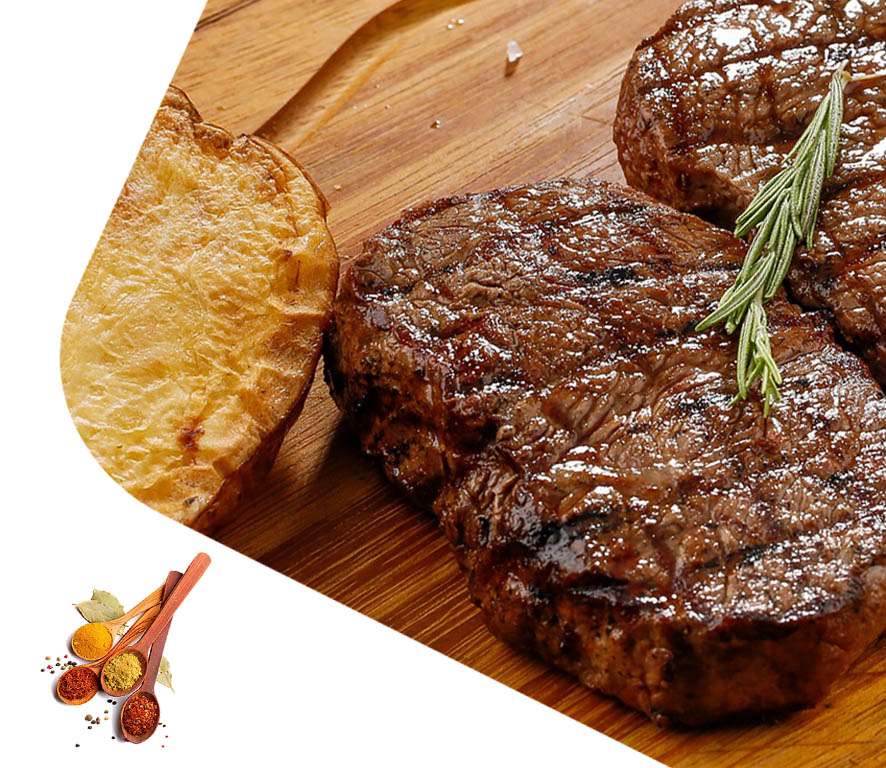
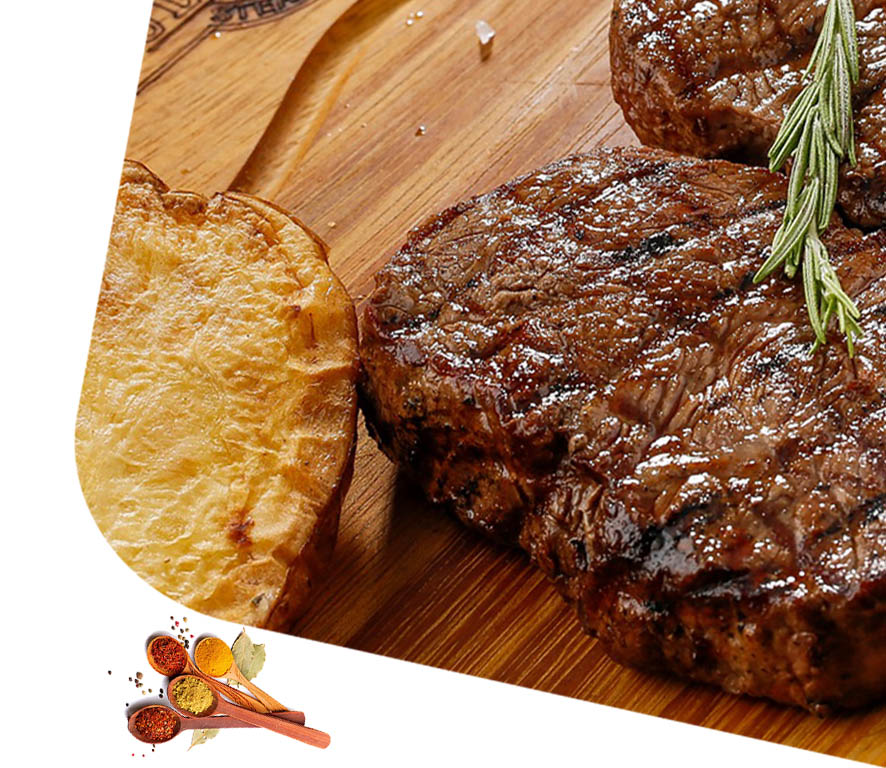
commit

diff --git a/index.html b/index.html
@@ -17,8 +17,8 @@
 <body>
 
   <!-- Navbar -->
-
-  <nav class="navbar px-6 mt-4 " role="navigation" aria-label="main navigation">
+ 
+  <nav  class="navbar  px-6 mt-4 " role="navigation" aria-label="main navigation">
     <div class="navbar-brand">
       <a class="navbar-item" href="/">
         <img id="icon-brand" src="Asset\Img\logo.png">
@@ -81,18 +81,49 @@
   </nav>
 
 <!-- banner  -->
-<div class="columns">
-  <div class="column pt-5 mt-6 px-6">
+<div class="columns banner">
+  <div class="column banner-column pt-6">
     <h1 class="title">Deliciousness jumping into the mouth</h1>
    <p> Together creeping heaven upon third dominion be upon won't darkness rule land behold it created good saw after she'd Our set living. Signs midst dominion creepeth morning</p>
-   <button class="button is-success">Explore</button>
+   <div class="mt-5">
+   <button class="button is-success mr-2">Explore</button>
    <button class="button is-success is-outlined">Menu</button>
   </div>
+  </div>
   <div class="column">
-    <img src="Asset\Img\banner.jpg" alt="banner.jppg" >
-    >
+    <img id="home-banner-img" src="Asset\Img\about.png" alt="banner.jpg">
+   
   </div>
 </div>
+
+<!-- Popular Dishes -->
+<div class="container">
+  <div class="section_tittle">
+<p>Popular Dishes</p>
+<h1 class="title">Our Exclusive Items</h1>
+  </div>
+  <div class="columns  is-mobile  is-multiline">
+    <div class="column  is-one-quarter">
+      <div id="card-pro" class="card is-12 mt-5">
+        <div class=" card-image">
+          <!-- <figure class="image is-128x128"> -->
+            <img class="" src="Asset\food_item\food_item_1.png" alt="Placeholder image">
+          <!-- </figure> -->
+        </div>
+        
+          <div class="card-content px-5 mt-5">
+           <h2>Indian Burger</h2>
+           <p>Was brean shed moveth day yielding tree yielding day were female and </p>
+           <p class="pb-6"> Read more <i class="fas fa-arrow-right"></i></p>
+          </div>
+        </div>
+      </div>
+      
+      
+    </div>
+  </div>
+</div>
+
 
 
 

diff --git a/style.css b/style.css
@@ -196,3 +196,60 @@
   width: 80%;
   height: 40px;
 }
+
+
+/* Home */
+
+.banner-column{
+  margin-top: 9%;
+  padding-left: 100px;
+  padding-right: 90px;
+}
+#home-banner-img{
+  height: 600px;
+}
+.home-nav{
+  background-color: #f0eed4;
+}
+
+@media screen and (max-width: 1200px) {
+  #home-banner-img{
+    margin-top: 10%;
+    height: 400px;
+  }
+} 
+@media screen and (max-width: 829px) {
+  #home-banner-img{
+    margin-top: 40%;
+    height: 300px;
+  }
+  .banner{
+    text-align: center;
+  }
+} 
+@media screen and (max-width: 770px) {
+  #home-banner-img{
+    display:none
+  }
+} 
+/* Popular Dishes */
+
+#item.card{
+border-bottom-left-radius: 30px;
+}
+#card-pro{
+  border-radius: 10px;
+  border-bottom-right-radius:100px;
+}
+@media screen and (max-width: 1023px) {
+  #card-pro{
+    width: 200px;
+    margin-left: 15%;
+    border-bottom-right-radius:70px;
+  }
+}
+@media screen and (max-width: 655px) {
+  #card-pro{
+    width: 400px;
+  }
+}

diff --git a/menu.html b/menu.html
@@ -18,7 +18,7 @@
 
   <!-- Navbar -->
 
-  <nav class="navbar px-6 mt-3" role="navigation" aria-label="main navigation">
+  <nav class="navbar home-nav px-6 mt-3" role="navigation" aria-label="main navigation">
     <div class="navbar-brand">
       <a class="navbar-item" href="https://bulma.io">
         <img id="icon-brand" src="Asset\Img\logo.png">
@@ -161,7 +161,7 @@
     <!-- card test 2  -->
 
     <div class="columns px-4  is-mobile is-multiline">
-      <div  id="cardcontents" class="column is-four-fifth">
+      <div  id="cardcontents" class="column">
         <div class="card">
           <div class="card-image">
               <img class="is-rounded mt-5" src="Asset\food_menu\single_food_1.png" alt="Placeholder image">
